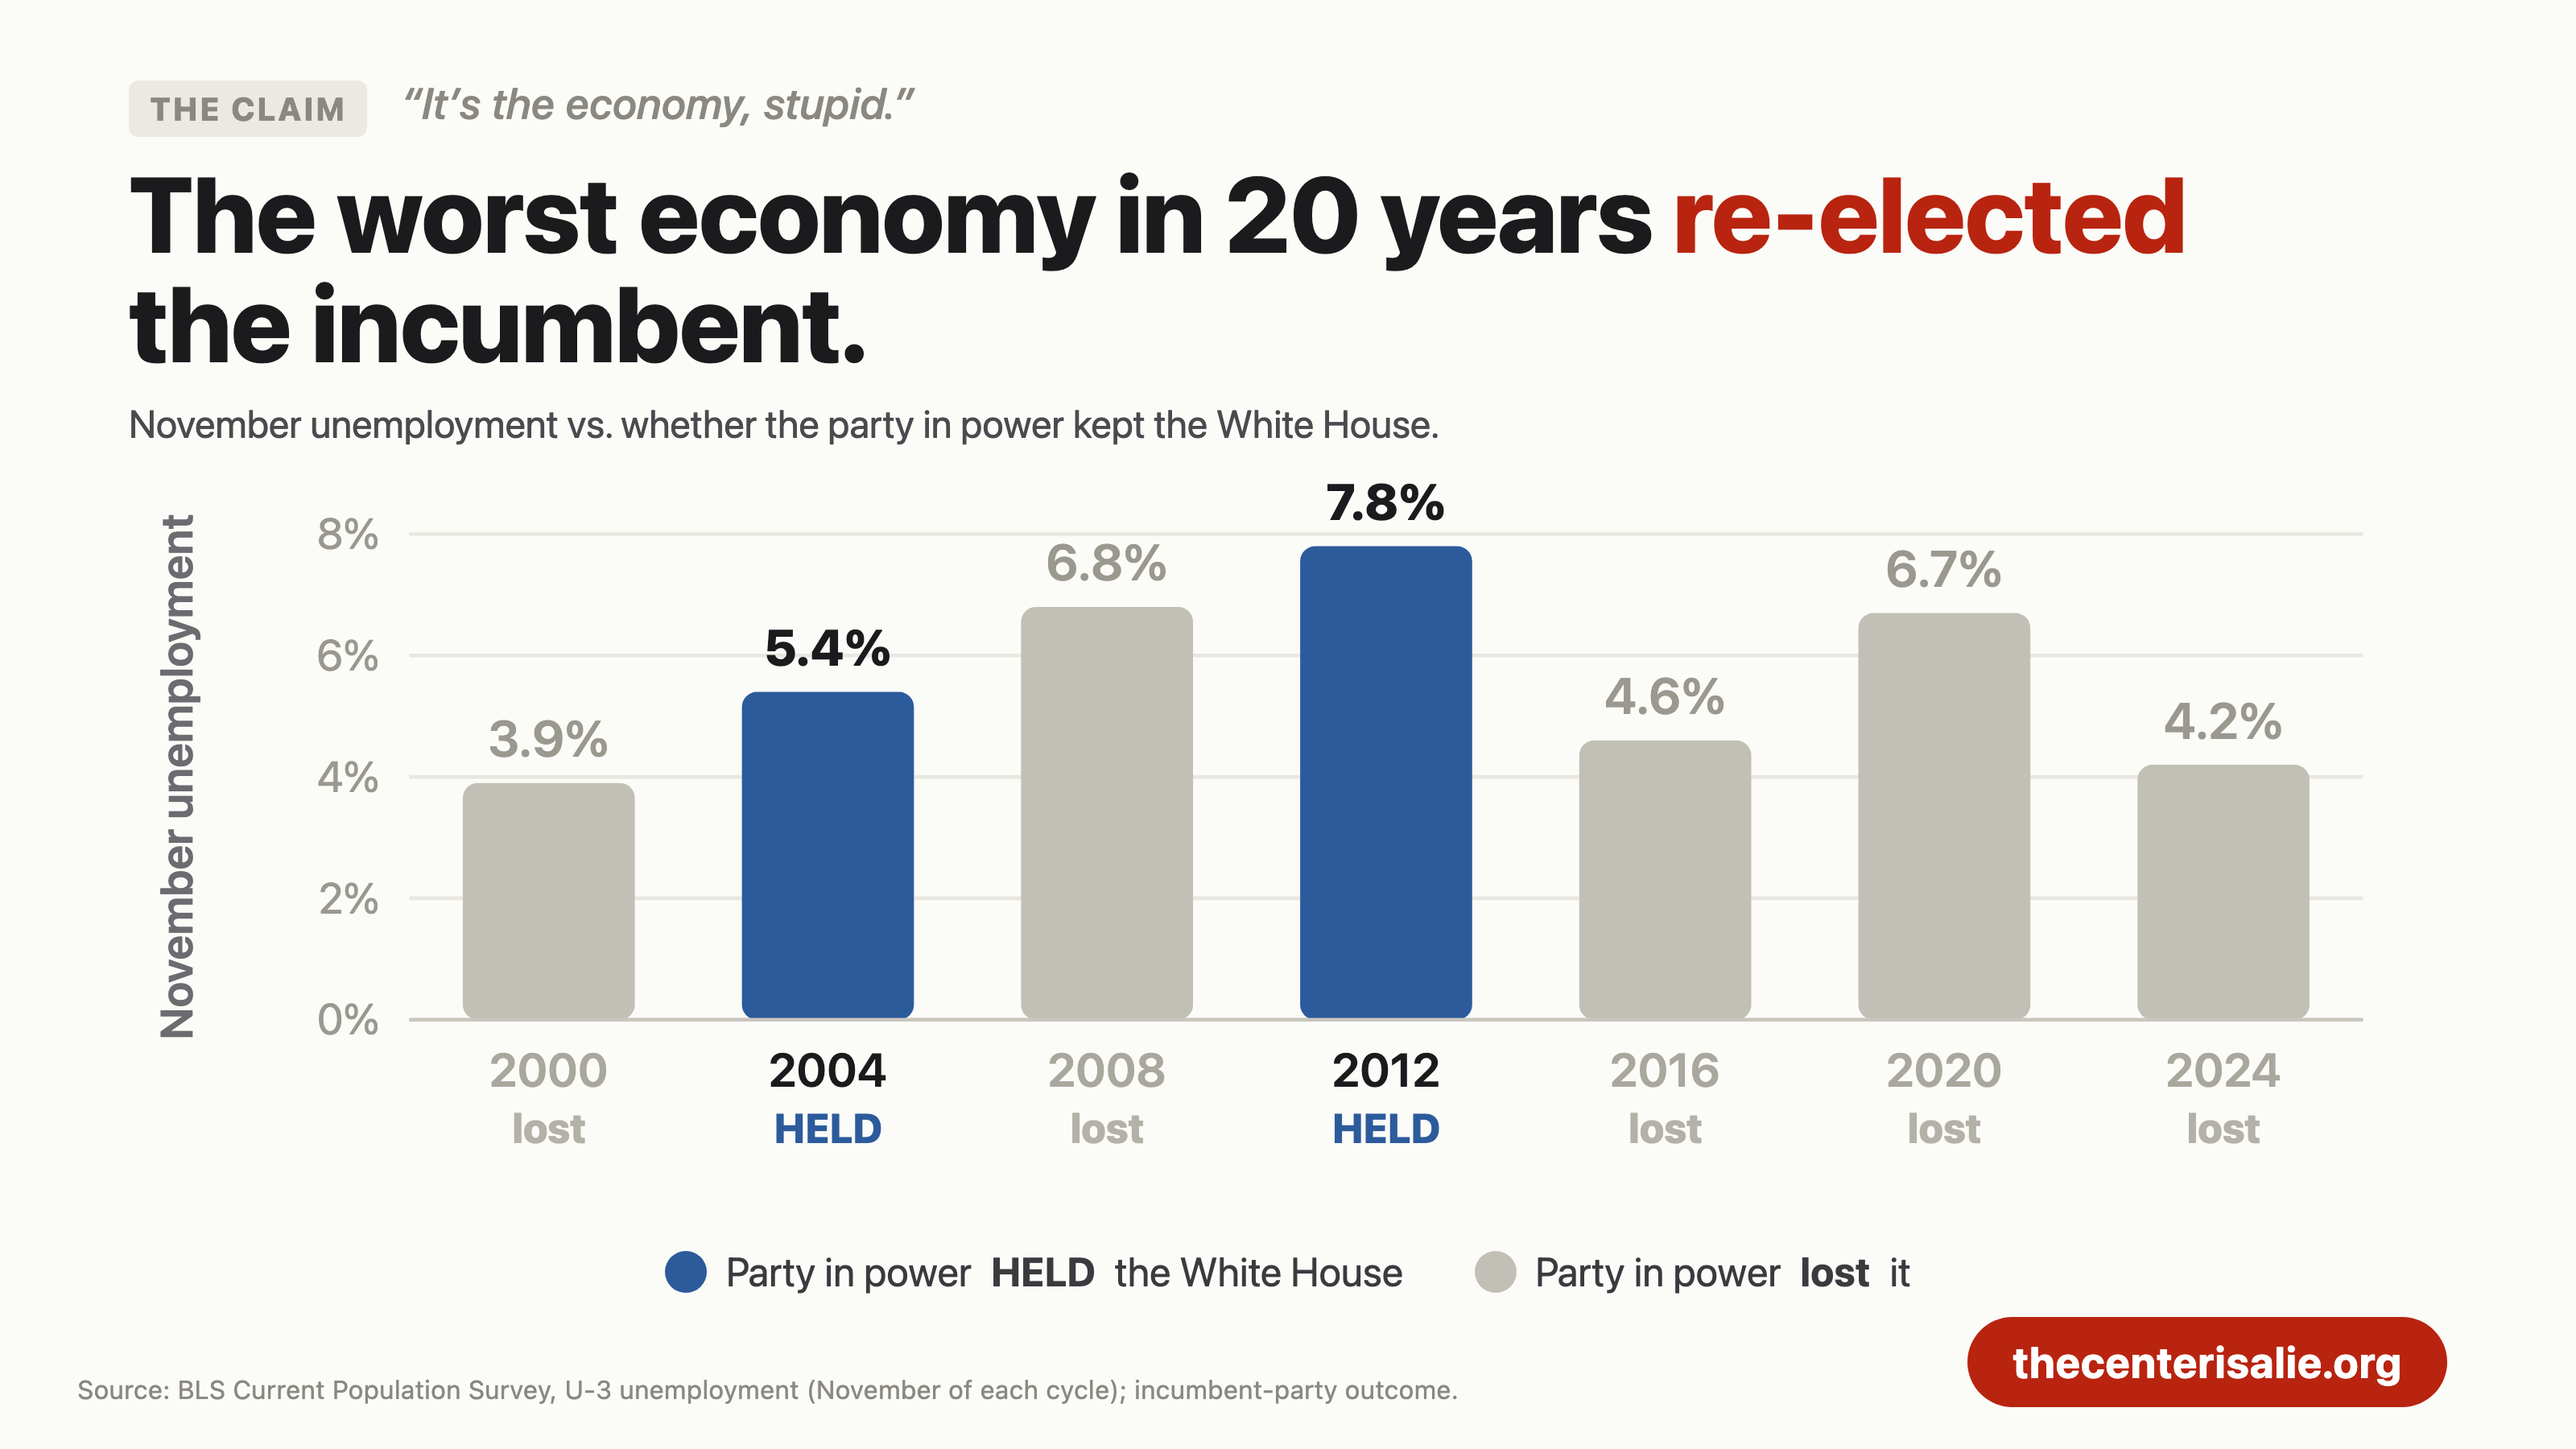
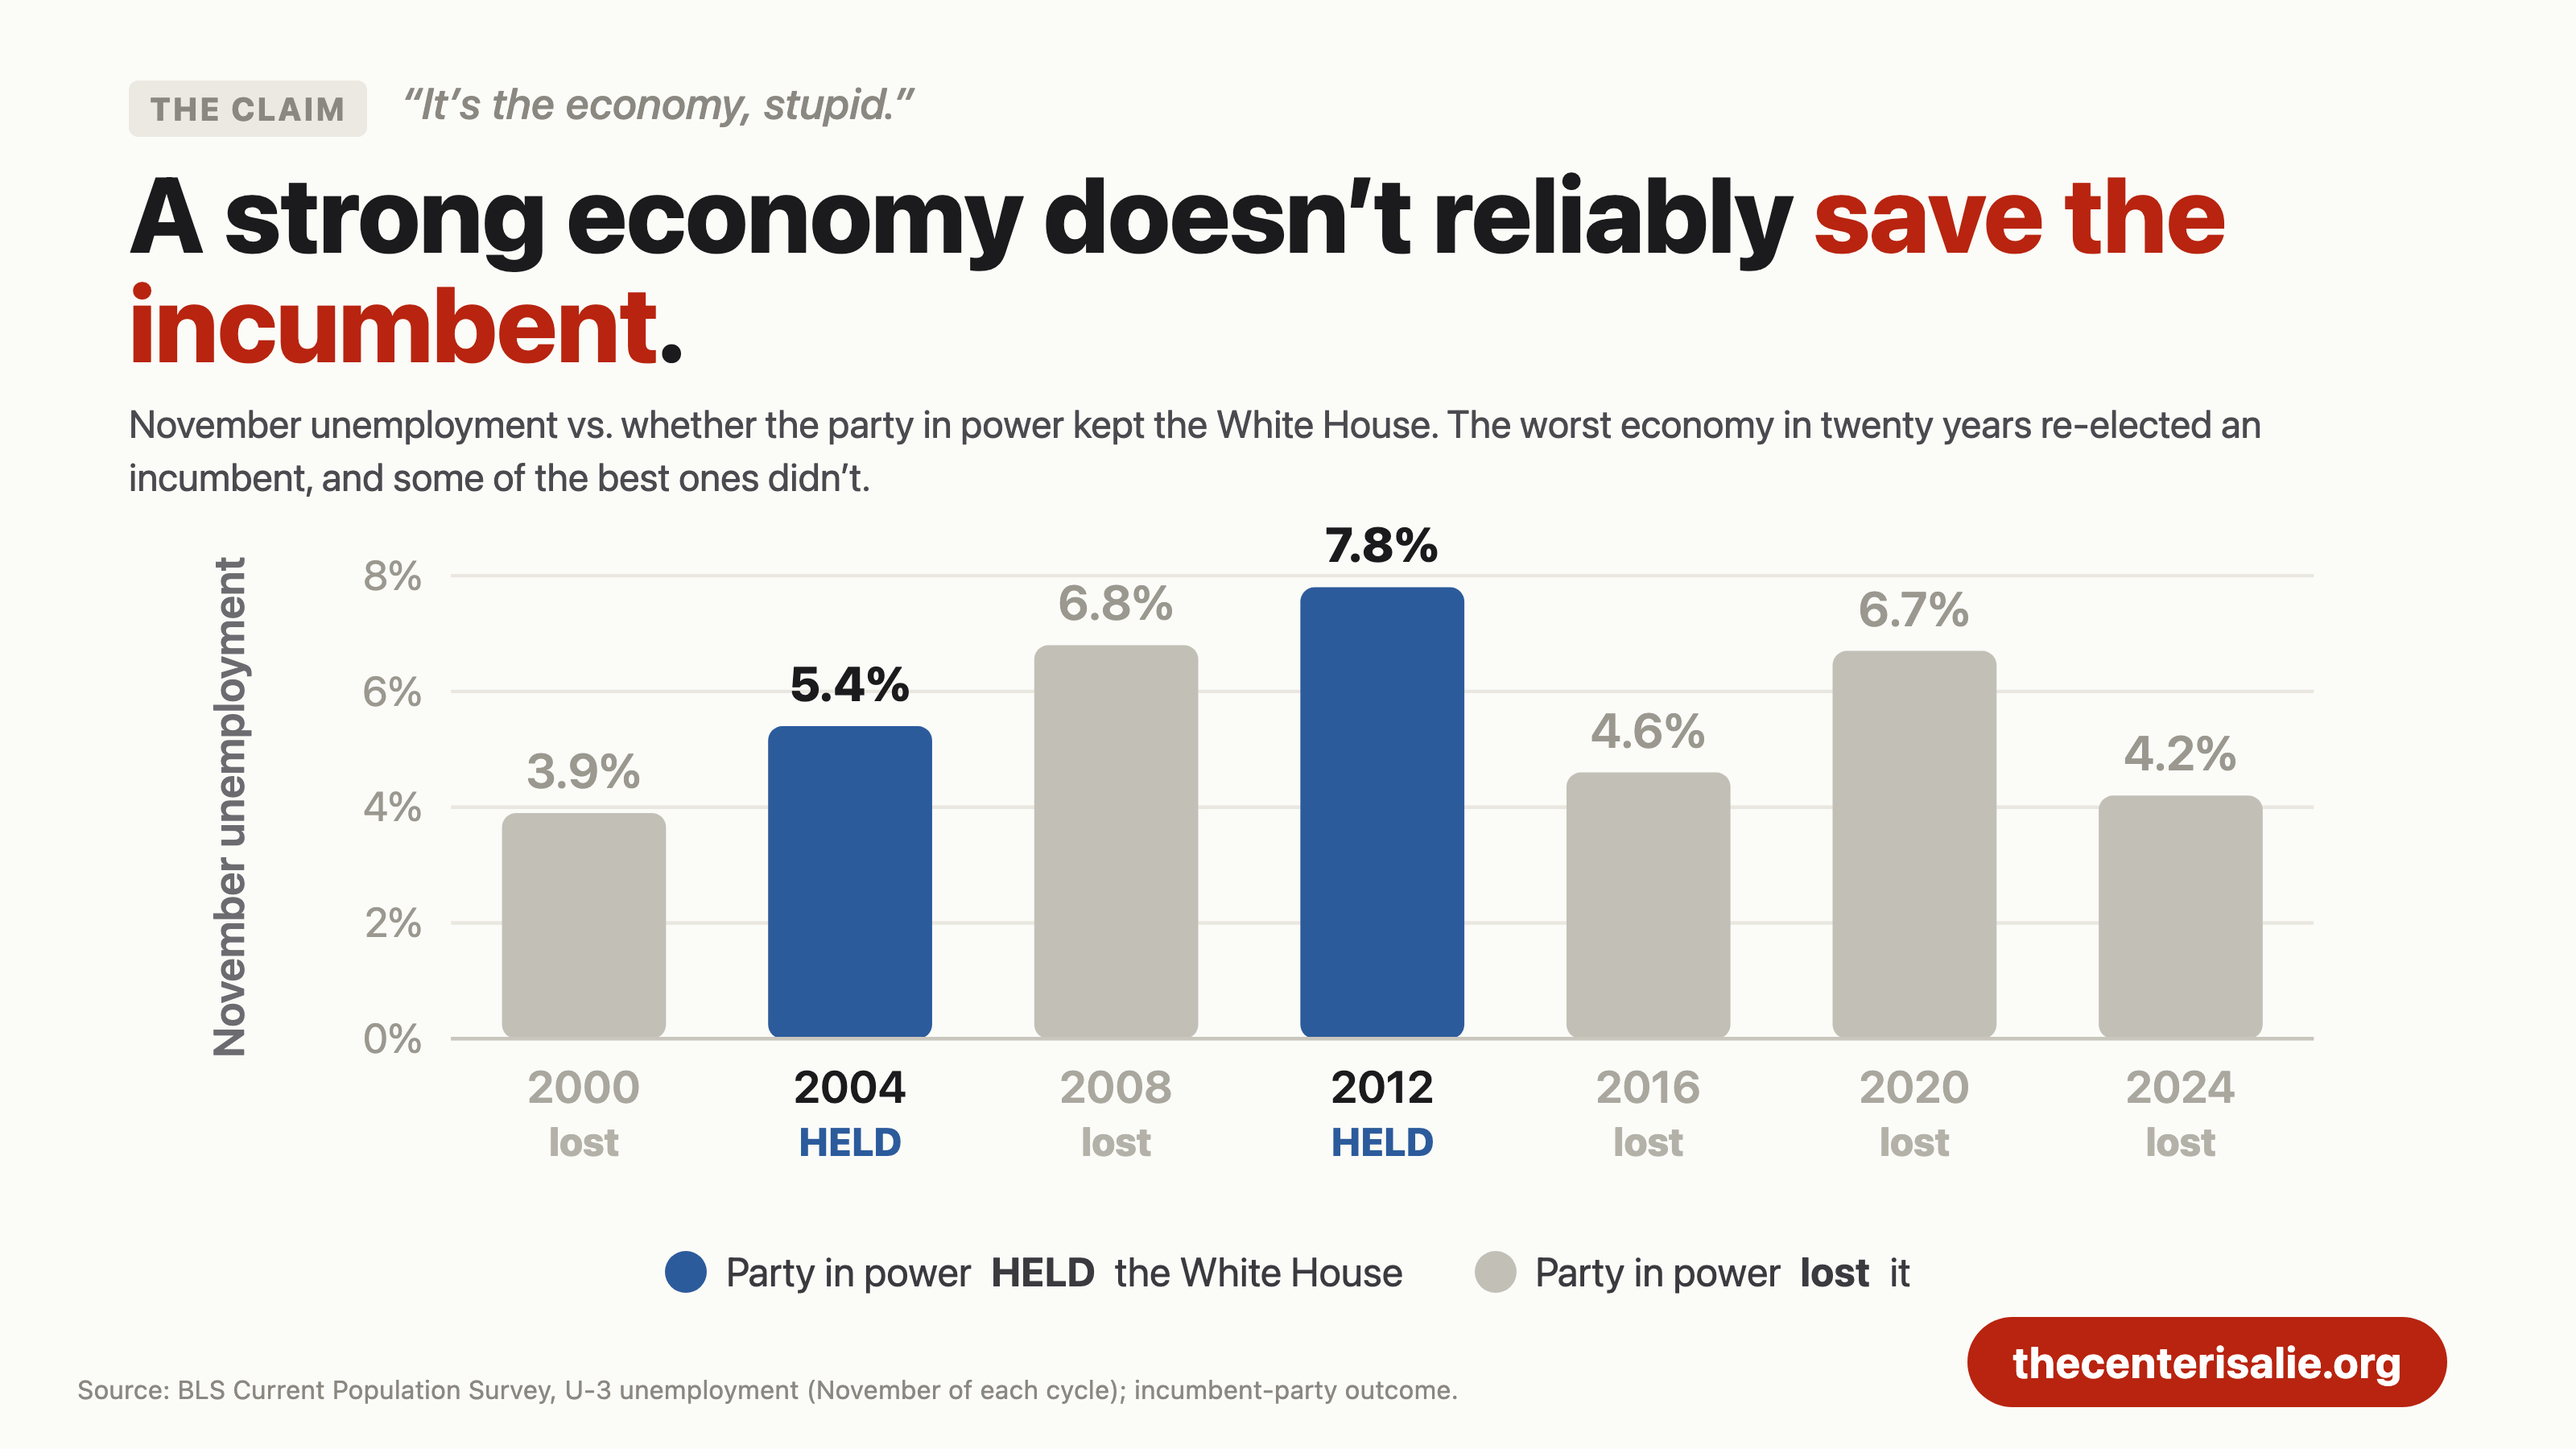
fix(og): reframe alienated around frustration; retitle fundamentals
alienated: "non-voter" isn't a term of art and "given up" read as resignation.
The finding is the opposite of apathy: the "things are fine" type is down to
6%, and what remains are people who don't believe voting changes what happens
to them. Title now leads with that distinction; the interpretive line is kept
separate from the measured shares.

fundamentals: retitled from the single-cycle anecdote to the general claim it
supports. The worst-economy-re-elected point moves into the subhead.

diff --git a/web/og-cards/chart-alienated.html b/web/og-cards/chart-alienated.html
@@ -2,9 +2,9 @@
 <html lang="en"><head><meta charset="utf-8"><link rel="stylesheet" href="./chart-card.css"></head>
 <body>
   <div class="chartcard">
-    <div class="cc-claim"><span class="tag">The claim</span> &ldquo;Non-voters are just content, or too lazy to show up.&rdquo;</div>
-    <div class="cc-title">Non-voters aren&rsquo;t content. They&rsquo;ve <span class="hl">given up</span>.</div>
-    <div class="cc-sub">Low-engagement non-voters in 2024, by outlook. The &ldquo;things are fine&rdquo; type has nearly vanished.</div>
+    <div class="cc-claim"><span class="tag">The claim</span> &ldquo;People who sit out are apathetic, content, or too lazy to show up.&rdquo;</div>
+    <div class="cc-title">They didn&rsquo;t stop caring. They stopped believing it <span class="hl">changes anything</span>.</div>
+    <div class="cc-sub">Americans who sat out 2024 and follow politics least closely, by outlook. The &ldquo;things are basically fine&rdquo; voter has nearly vanished, down to 6%. What&rsquo;s left is people who don&rsquo;t think voting changes what happens to them. That is a verdict on delivery, not apathy.</div>
 
     <div class="cc-chart"><svg id="al" viewBox="0 0 1240 449" role="img"
       aria-label="Of low-engagement non-voters in 2024: 53% alienated, 41% mixed, 6% complacent"></svg></div>

diff --git a/web/og-cards/chart-fundamentals.html b/web/og-cards/chart-fundamentals.html
@@ -3,8 +3,8 @@
 <body>
   <div class="chartcard">
     <div class="cc-claim"><span class="tag">The claim</span> &ldquo;It&rsquo;s the economy, stupid.&rdquo;</div>
-    <div class="cc-title">The worst economy in 20 years <span class="hl">re-elected</span> the incumbent.</div>
-    <div class="cc-sub">November unemployment vs. whether the party in power kept the White House.</div>
+    <div class="cc-title">A strong economy doesn&rsquo;t reliably <span class="hl">save the incumbent</span>.</div>
+    <div class="cc-sub">November unemployment vs. whether the party in power kept the White House. The worst economy in twenty years re-elected an incumbent, and some of the best ones didn&rsquo;t.</div>
 
     <div class="cc-chart"><svg id="fund" viewBox="0 0 1240 410" role="img"
       aria-label="November unemployment by cycle; the party in power held the White House at the highest unemployment and lost at the lowest"></svg></div>
